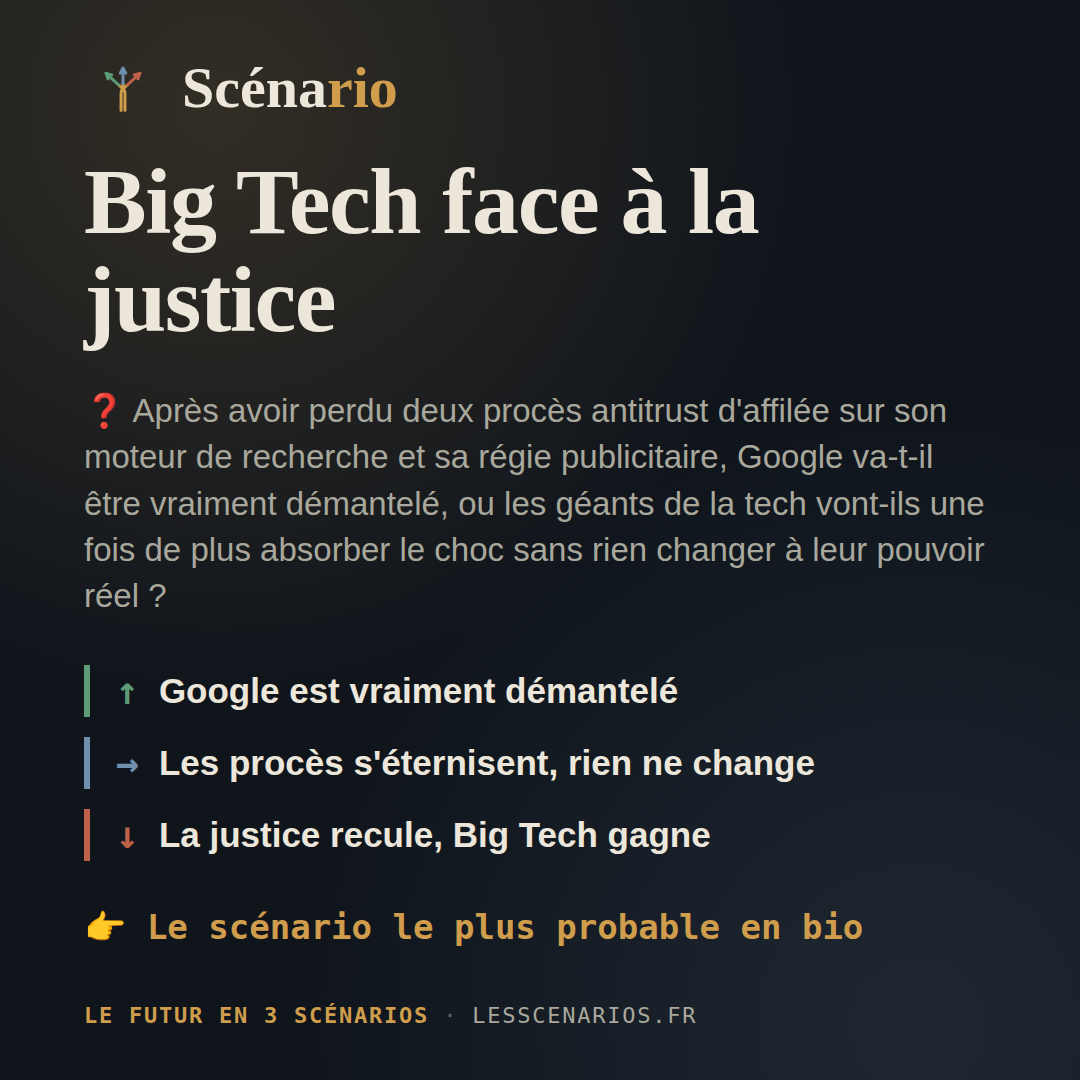
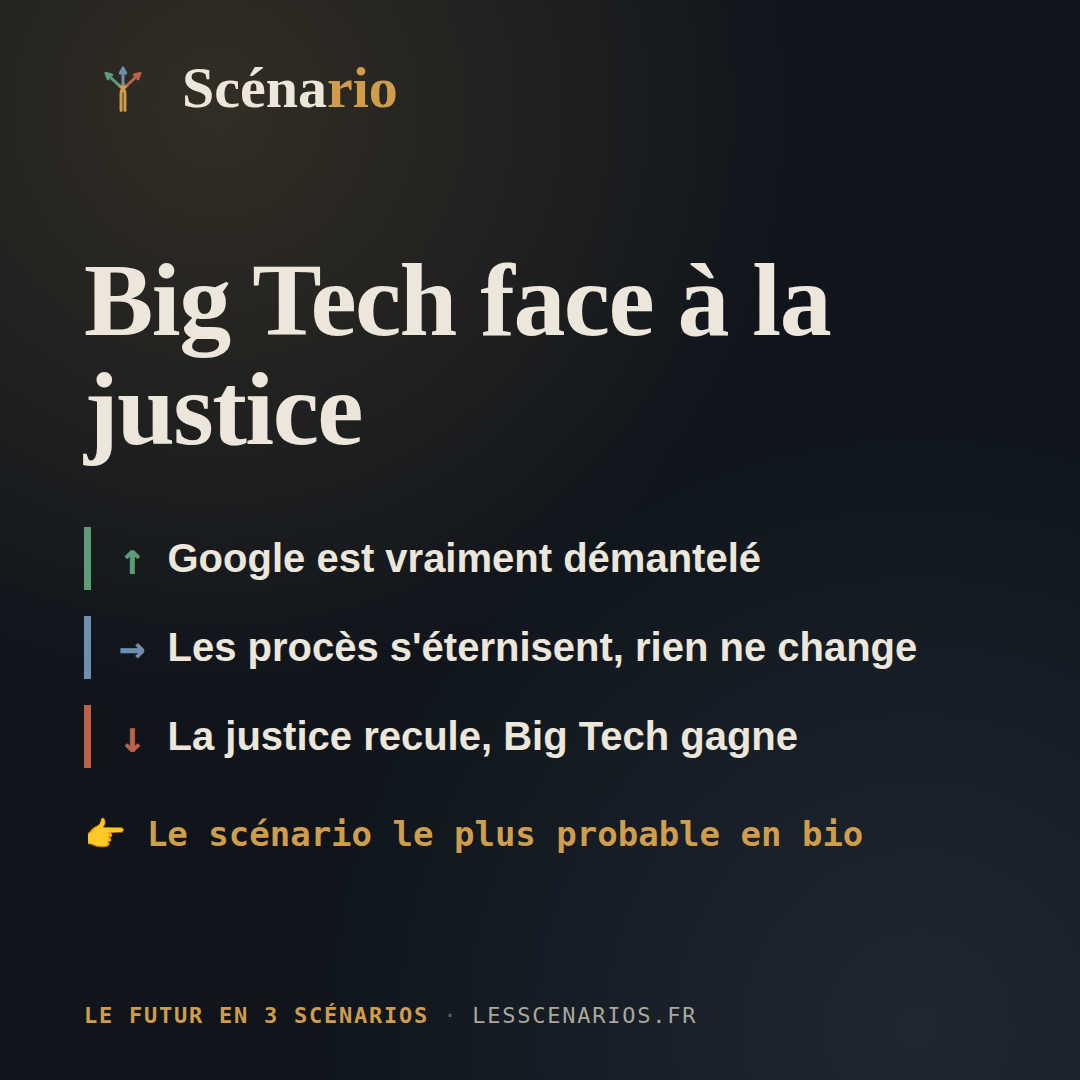
Simplifie l'image Instagram : titre + 3 scénarios, retire la question
Retour utilisateur : la question/le contexte restait illisible sur
mobile même en agrandissant le texte. Nouvelle approche : l'image ne
porte plus que le titre et les 3 titres de scénarios (tout agrandi,
notamment le titre 94px->104px et les scénarios 35px->40px), et le
contexte/la question passe dans la légende du post via {{4.Comments}}
plutôt que sur le visuel.

- scripts/social/instagram-template.html : bloc .question retiré,
  tailles augmentées
- scripts/social/generate_instagram_image.py : le JSON n'attend plus
  de champ "question"
- docs/routine-prompt.md : synchronisé (nouveau texte à recopier
  manuellement dans la routine live, cf. discussion)
- assets/social/instagram/2026-08-07.png : image de test régénérée
  avec le nouveau design

Claude-Session: https://claude.ai/code/session_01FP8AcmKqV9FLL5BVipDArZ

diff --git a/scripts/social/instagram-template.html b/scripts/social/instagram-template.html
@@ -48,39 +48,31 @@
   .headline{
     font-family:"Fraunces", serif;
     font-weight:900;
-    font-size: 94px;
+    font-size: 104px;
     line-height:1.04;
     letter-spacing:-0.015em;
     color: var(--paper);
     margin-top: 20px;
   }
 
-  .question{
-    font-family: "Inter", sans-serif;
-    font-weight:500;
-    font-size: 33px;
-    line-height:1.4;
-    color: var(--paper-dim);
-  }
-
   .scenarios{
     display:flex;
     flex-direction:column;
-    gap:20px;
-    margin-top: 6px;
+    gap:26px;
+    margin-top: 24px;
   }
   .scenario-row{
     display:flex;
     align-items:center;
-    gap:20px;
+    gap:22px;
     font-family:"Inter", sans-serif;
     font-weight:700;
-    font-size:35px;
+    font-size:40px;
     color: var(--paper);
-    padding: 4px 0 4px 26px;
-    border-left: 6px solid transparent;
+    padding: 6px 0 6px 28px;
+    border-left: 7px solid transparent;
   }
-  .scenario-row .arrow{ font-family:"JetBrains Mono", monospace; font-size:38px; }
+  .scenario-row .arrow{ font-family:"JetBrains Mono", monospace; font-size:44px; }
   .scenario-row[data-kind="favorable"]{ border-color: var(--favorable); }
   .scenario-row[data-kind="favorable"] .arrow{ color: var(--favorable); }
   .scenario-row[data-kind="stable"]{ border-color: var(--stable); }
@@ -129,8 +121,6 @@
   </div>
 
   <div class="headline">__TITLE__</div>
-
-  <div class="question">__QUESTION__</div>
 
   <div class="scenarios">
     __SCENARIO_ROWS__

diff --git a/scripts/social/generate_instagram_image.py b/scripts/social/generate_instagram_image.py
@@ -17,7 +17,6 @@ Usage:
 data.json:
 {
   "title": "FIFA : la présidence d'Infantino vacille",
-  "question": "🤔 Infantino peut-il regagner la confiance de l'UEFA avant l'élection de mars 2027 ?",
   "scenarios": [
     {"kind": "favorable", "label": "Infantino regagne la confiance"},
     {"kind": "stable", "label": "La méfiance dure, il reste en poste"},
@@ -27,7 +26,10 @@ data.json:
 
 Champs "kind" attendus : favorable | stable | degrade (détermine la
 couleur et la flèche ↑/→/↓). Pas de pourcentages dans l'image — c'est
-volontaire (effet teaser vers le lien en bio).
+volontaire (effet teaser vers le lien en bio). Pas de question/contexte
+non plus sur l'image (retiré le 7 août, retour utilisateur : illisible
+sur mobile même agrandi) — le contexte/la question va dans la légende
+du post (`{{4.Comments}}`), pas sur le visuel.
 """
 import argparse
 import html
@@ -54,7 +56,7 @@ def build_scenario_rows(scenarios):
 
 def main():
     ap = argparse.ArgumentParser()
-    ap.add_argument("--data", required=True, help="Chemin vers le JSON (title + question + scenarios)")
+    ap.add_argument("--data", required=True, help="Chemin vers le JSON (title + scenarios)")
     ap.add_argument("--output", required=True, help="Chemin du PNG de sortie")
     ap.add_argument("--template", required=True, help="Chemin du template HTML")
     args = ap.parse_args()
@@ -63,13 +65,11 @@ def main():
     template = Path(args.template).read_text(encoding="utf-8")
 
     title_html = html.escape(data["title"])
-    question_html = html.escape(data["question"])
     rows_html = build_scenario_rows(data["scenarios"])
 
     final_html = (
         template
         .replace("__TITLE__", title_html)
-        .replace("__QUESTION__", question_html)
         .replace("__SCENARIO_ROWS__", rows_html)
     )
 

diff --git a/docs/routine-prompt.md b/docs/routine-prompt.md
@@ -260,7 +260,6 @@ où `/tmp/ig-data.json` contient :
 ```json
 {
   "title": "{h1 du jour}",
-  "question": "{emoji} {accroche + question du jour}",
   "scenarios": [
     {"kind": "favorable", "label": "{titre du h3 favorable, sans emoji}"},
     {"kind": "stable", "label": "{titre du h3 stable, sans emoji}"},
@@ -268,7 +267,7 @@ où `/tmp/ig-data.json` contient :
   ]
 }
 ```
-Les 3 `label` reprennent exactement les mêmes titres déjà utilisés pour `scenario-mini-title` à l'étape 6 (sans emoji) — jamais une nouvelle reformulation. Volontairement **aucun pourcentage** sur l'image (effet teaser vers le lien en bio Instagram, choix du 7 août). Committer le fichier PNG généré avec le reste des changements du jour. Ajouter ensuite, dans l'`<item>` du flux, juste après `</category>` et avant `<description>` :
+Les 3 `label` reprennent exactement les mêmes titres déjà utilisés pour `scenario-mini-title` à l'étape 6 (sans emoji) — jamais une nouvelle reformulation. Volontairement **aucun pourcentage** sur l'image (effet teaser vers le lien en bio Instagram, choix du 7 août), et volontairement **pas de question/contexte non plus** sur l'image (retiré le 7 août, retour utilisateur : illisible sur mobile même en gros, même en une seule fois agrandi une première fois) — seuls le titre et les 3 titres de scénarios y figurent, en gros caractères ; le contexte/la question reste porté par `<comments>` et sert de légende au post (pas un doublon à écrire ici). Committer le fichier PNG généré avec le reste des changements du jour. Ajouter ensuite, dans l'`<item>` du flux, juste après `</category>` et avant `<description>` :
 ```xml
 <enclosure url="https://lesscenarios.fr/assets/social/instagram/{AAAA-MM-JJ}.png" length="{taille en octets}" type="image/png"/>
 ```
